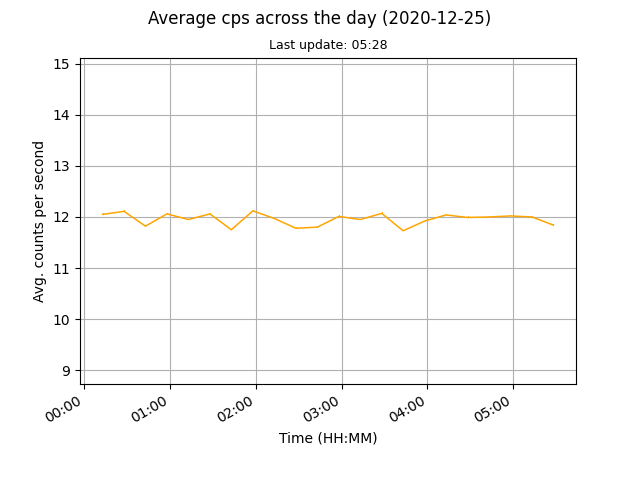
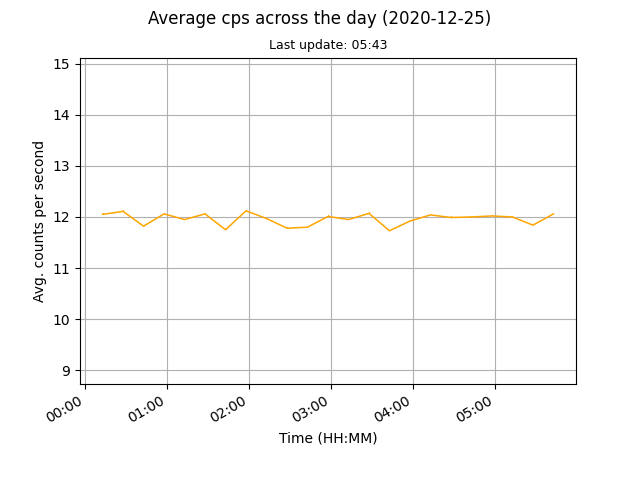
auto data update

diff --git a/docs/index.html b/docs/index.html
@@ -28,8 +28,8 @@
 	<h1>OpenSC Data Webarchive</h1>
 	<h1>Longterm measurements done with the Open Scintillation Counter. Location: Vienna, Austria.</h1>
 	
-	<h2>Current cps: 11.84</h2>
-	<h2>Last update: 2020-12-25, 05:28</h2>
+	<h2>Current cps: 12.06</h2>
+	<h2>Last update: 2020-12-25, 05:43</h2>
 
 	<p><img src="images/monthly.png" alt="Mothly avg cps data"><img src="images/daily.png" alt="Daily avg cps data"></p>
 
